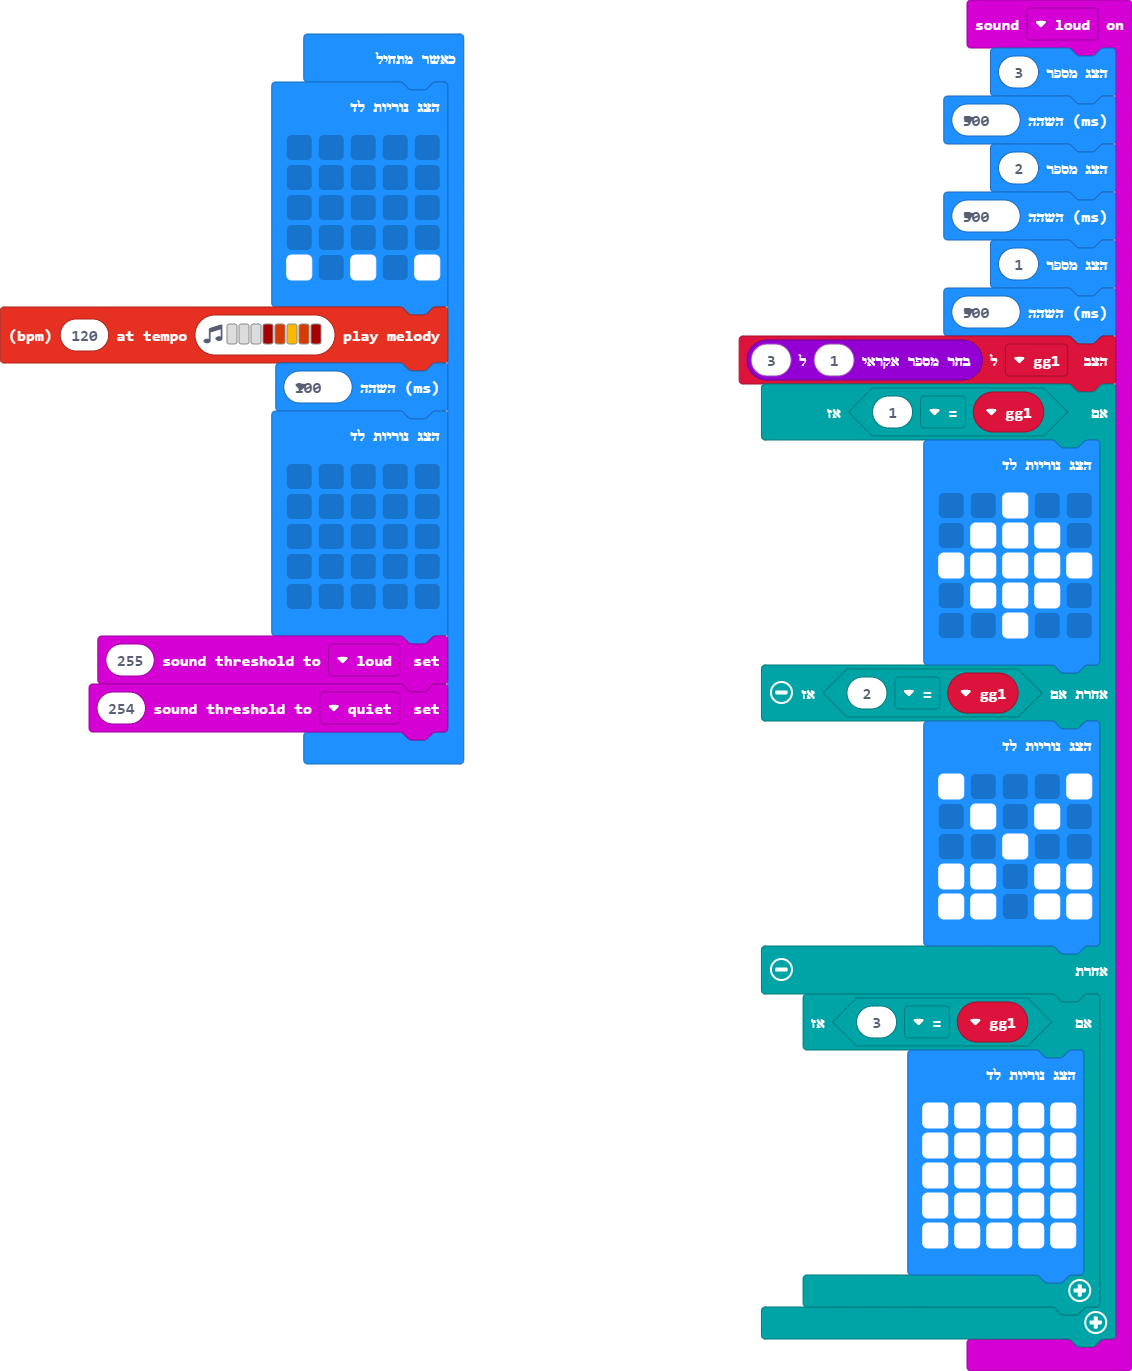
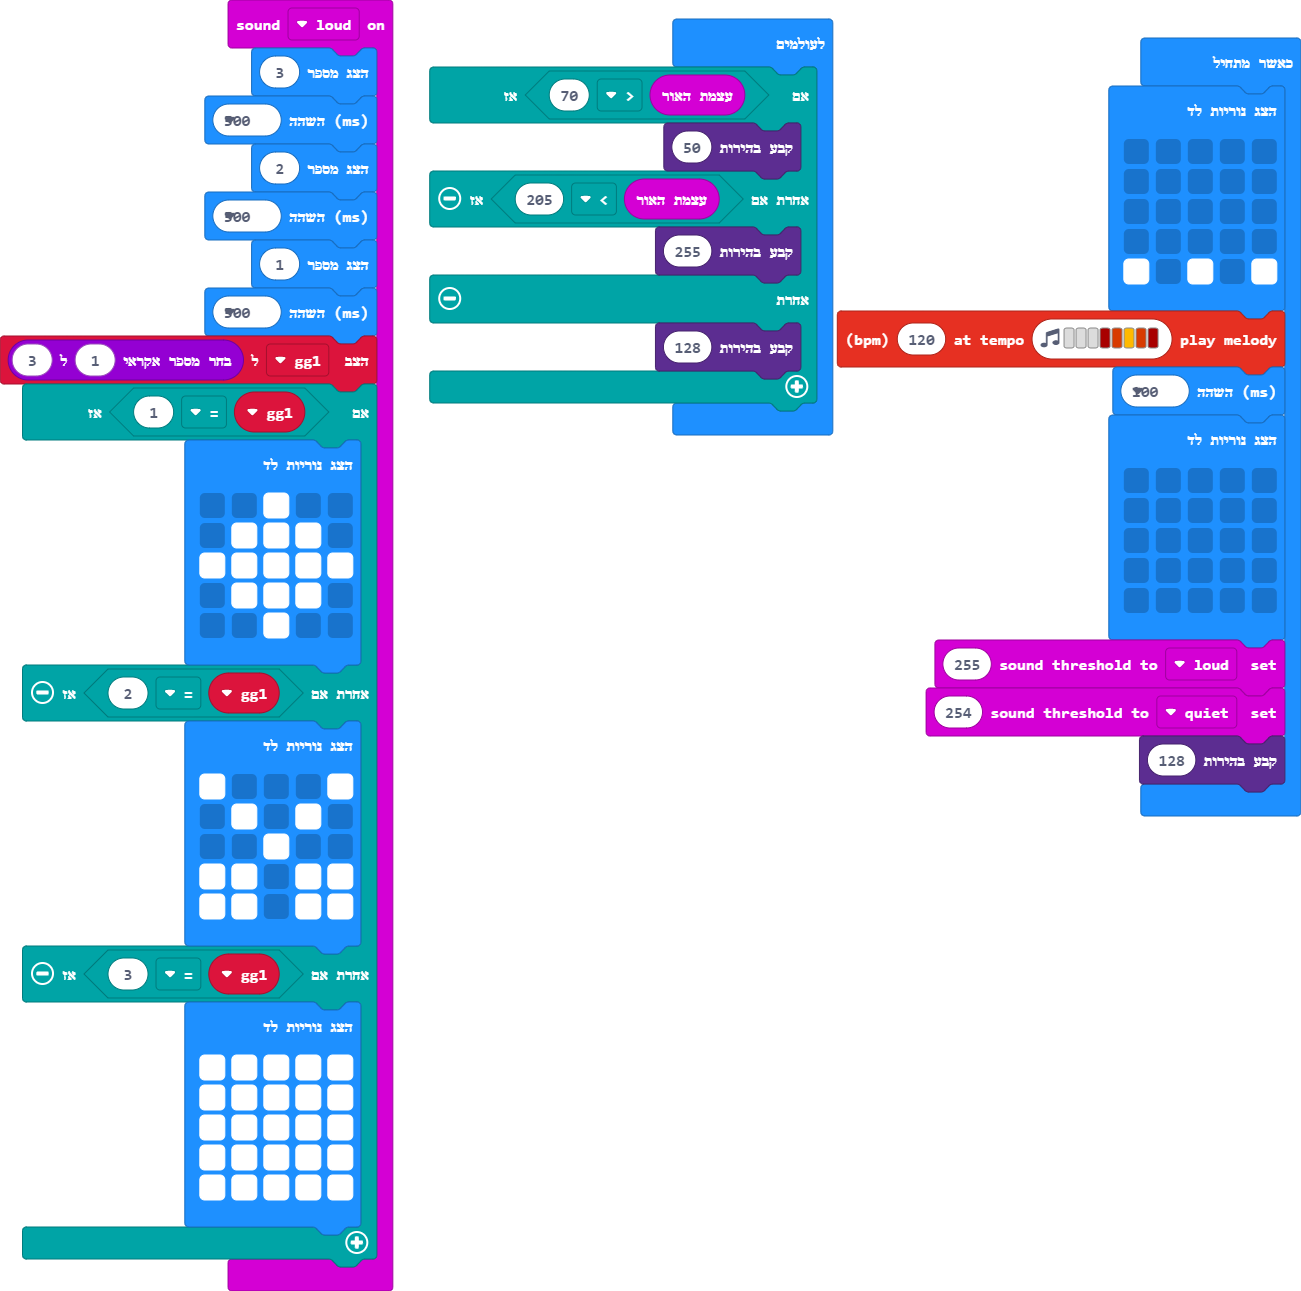
Update pxt.json, main.blocks, main.ts, main.py

diff --git a/main.ts b/main.ts
@@ -1,5 +1,4 @@
-input.onSound(DetectedSound.Loud, function on_sound_loud() {
-    
+input.onSound(DetectedSound.Loud, function () {
     basic.showNumber(3)
     basic.pause(500)
     basic.showNumber(2)
@@ -10,46 +9,55 @@ input.onSound(DetectedSound.Loud, function on_sound_loud() {
     if (gg1 == 1) {
         basic.showLeds(`
             . . # . .
-                        . # # # .
-                        # # # # #
-                        . # # # .
-                        . . # . .
-        `)
+            . # # # .
+            # # # # #
+            . # # # .
+            . . # . .
+            `)
     } else if (gg1 == 2) {
         basic.showLeds(`
             # . . . #
-                        . # . # .
-                        . . # . .
-                        # # . # #
-                        # # . # #
-        `)
+            . # . # .
+            . . # . .
+            # # . # #
+            # # . # #
+            `)
     } else if (gg1 == 3) {
         basic.showLeds(`
-                # # # # #
-                                # # # # #
-                                # # # # #
-                                # # # # #
-                                # # # # #
+            # # # # #
+            # # # # #
+            # # # # #
+            # # # # #
+            # # # # #
             `)
     }
-    
 })
 let gg1 = 0
 basic.showLeds(`
     . . . . .
-        . . . . .
-        . . . . .
-        . . . . .
-        # . # . #
-`)
+    . . . . .
+    . . . . .
+    . . . . .
+    # . # . #
+    `)
 music.playMelody("- - - C5 B A B C5 ", 120)
 basic.pause(100)
 basic.showLeds(`
     . . . . .
-        . . . . .
-        . . . . .
-        . . . . .
-        . . . . .
-`)
+    . . . . .
+    . . . . .
+    . . . . .
+    . . . . .
+    `)
 input.setSoundThreshold(SoundThreshold.Loud, 255)
 input.setSoundThreshold(SoundThreshold.Quiet, 254)
+led.setBrightness(128)
+basic.forever(function () {
+    if (input.lightLevel() < 70) {
+        led.setBrightness(50)
+    } else if (input.lightLevel() > 205) {
+        led.setBrightness(255)
+    } else {
+        led.setBrightness(128)
+    }
+})

diff --git a/main.py b/main.py
@@ -23,15 +23,14 @@ def on_sound_loud():
                         # # . # #
                         # # . # #
         """)
-    else:
-        if gg1 == 3:
-            basic.show_leds("""
-                # # # # #
-                                # # # # #
-                                # # # # #
-                                # # # # #
-                                # # # # #
-            """)
+    elif gg1 == 3:
+        basic.show_leds("""
+            # # # # #
+                        # # # # #
+                        # # # # #
+                        # # # # #
+                        # # # # #
+        """)
 input.on_sound(DetectedSound.LOUD, on_sound_loud)
 
 gg1 = 0
@@ -53,3 +52,14 @@ basic.show_leds("""
 """)
 input.set_sound_threshold(SoundThreshold.LOUD, 255)
 input.set_sound_threshold(SoundThreshold.QUIET, 254)
+
+led.set_brightness(128)
+
+def on_forever():
+    if input.light_level() < 70:
+        led.set_brightness(205)
+    elif input.light_level() > 205:
+        led.set_brightness(50)
+    else:
+        led.set_brightness(103)
+basic.forever(on_forever)
